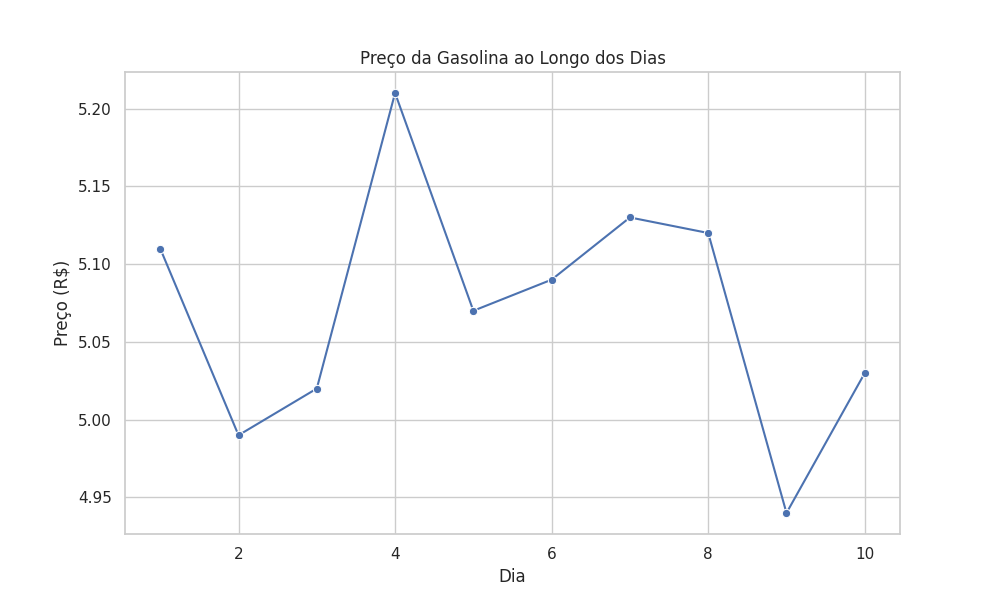
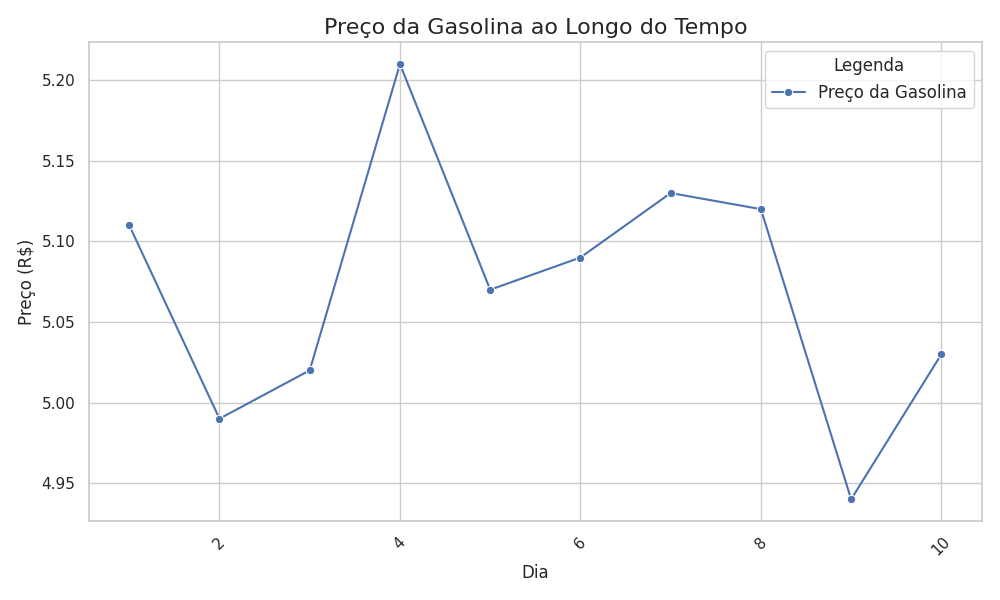
Atualização do gráfico da gasolina

diff --git a/gasolina.py b/gasolina.py
@@ -2,26 +2,23 @@ import pandas as pd
 import seaborn as sns
 import matplotlib.pyplot as plt
 
-# Carregar os dados
 df = pd.read_csv('gasolina.csv')
 
-# Verificar as primeiras linhas do DataFrame (opcional)
-print(df.head())
 
-# Definindo o estilo do gráfico
 sns.set(style="whitegrid")
 
-# Criar o gráfico de linha
 plt.figure(figsize=(10, 6))
-sns.lineplot(data=df, x='dia', y='venda', marker='o')
+sns.lineplot(x='dia', y='venda', data=df, marker='o', color='b', label='Preço da Gasolina')
 
-# Adicionando título e rótulos
-plt.title('Preço da Gasolina ao Longo dos Dias')
-plt.xlabel('Dia')
-plt.ylabel('Preço (R$)')
+plt.title('Preço da Gasolina ao Longo do Tempo', fontsize=16)
+plt.xlabel('Dia', fontsize=12)
+plt.ylabel('Preço (R$)', fontsize=12)
 
-# Salvar o gráfico em um arquivo
+plt.xticks(rotation=45)
+
+plt.legend(title='Legenda', fontsize=12, loc='upper right')
+
+plt.tight_layout()
 plt.savefig('gasolina.png')
 
-# Exibir o gráfico
 plt.show()
